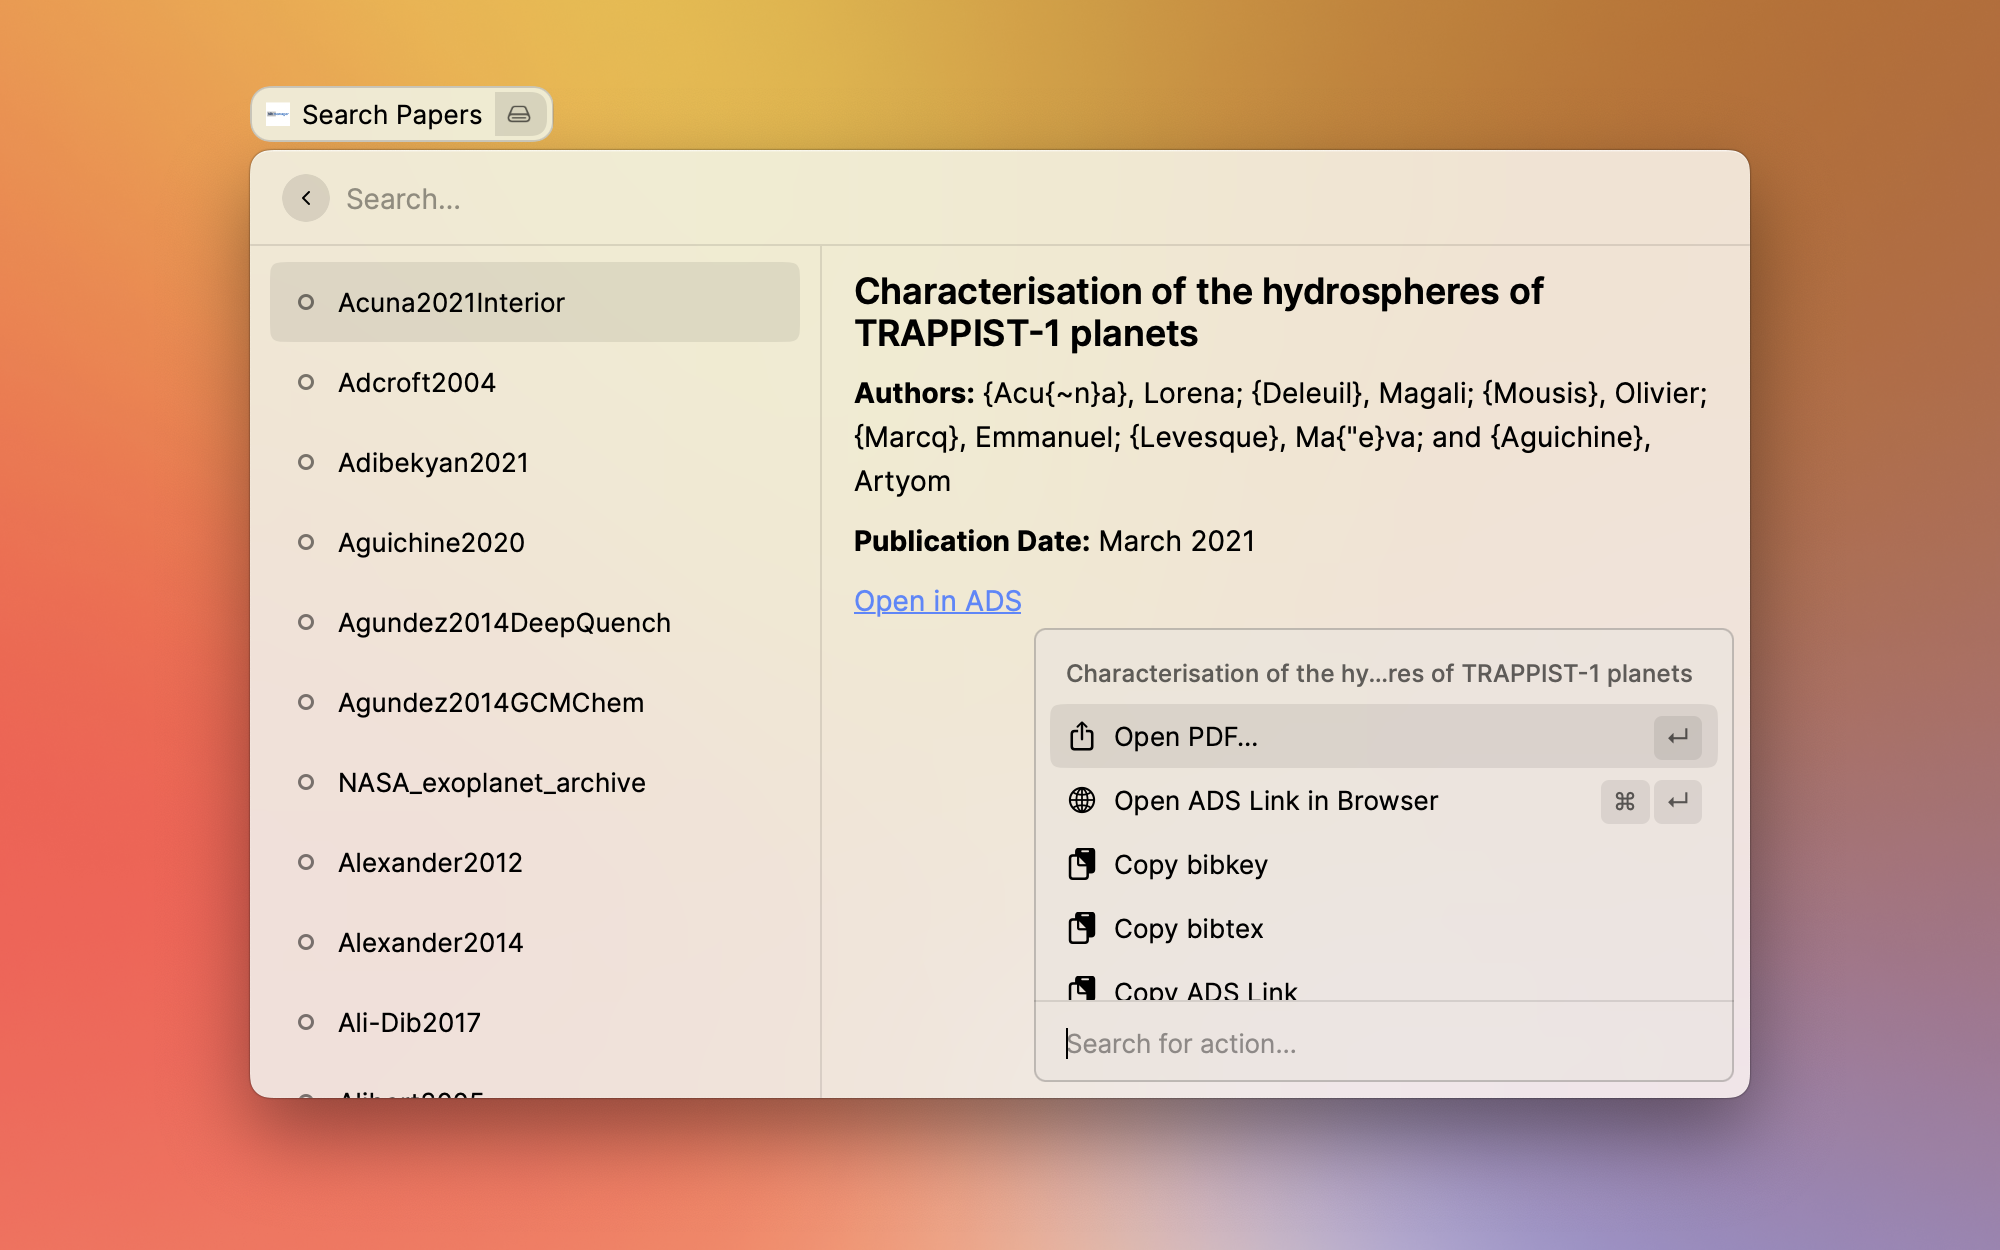
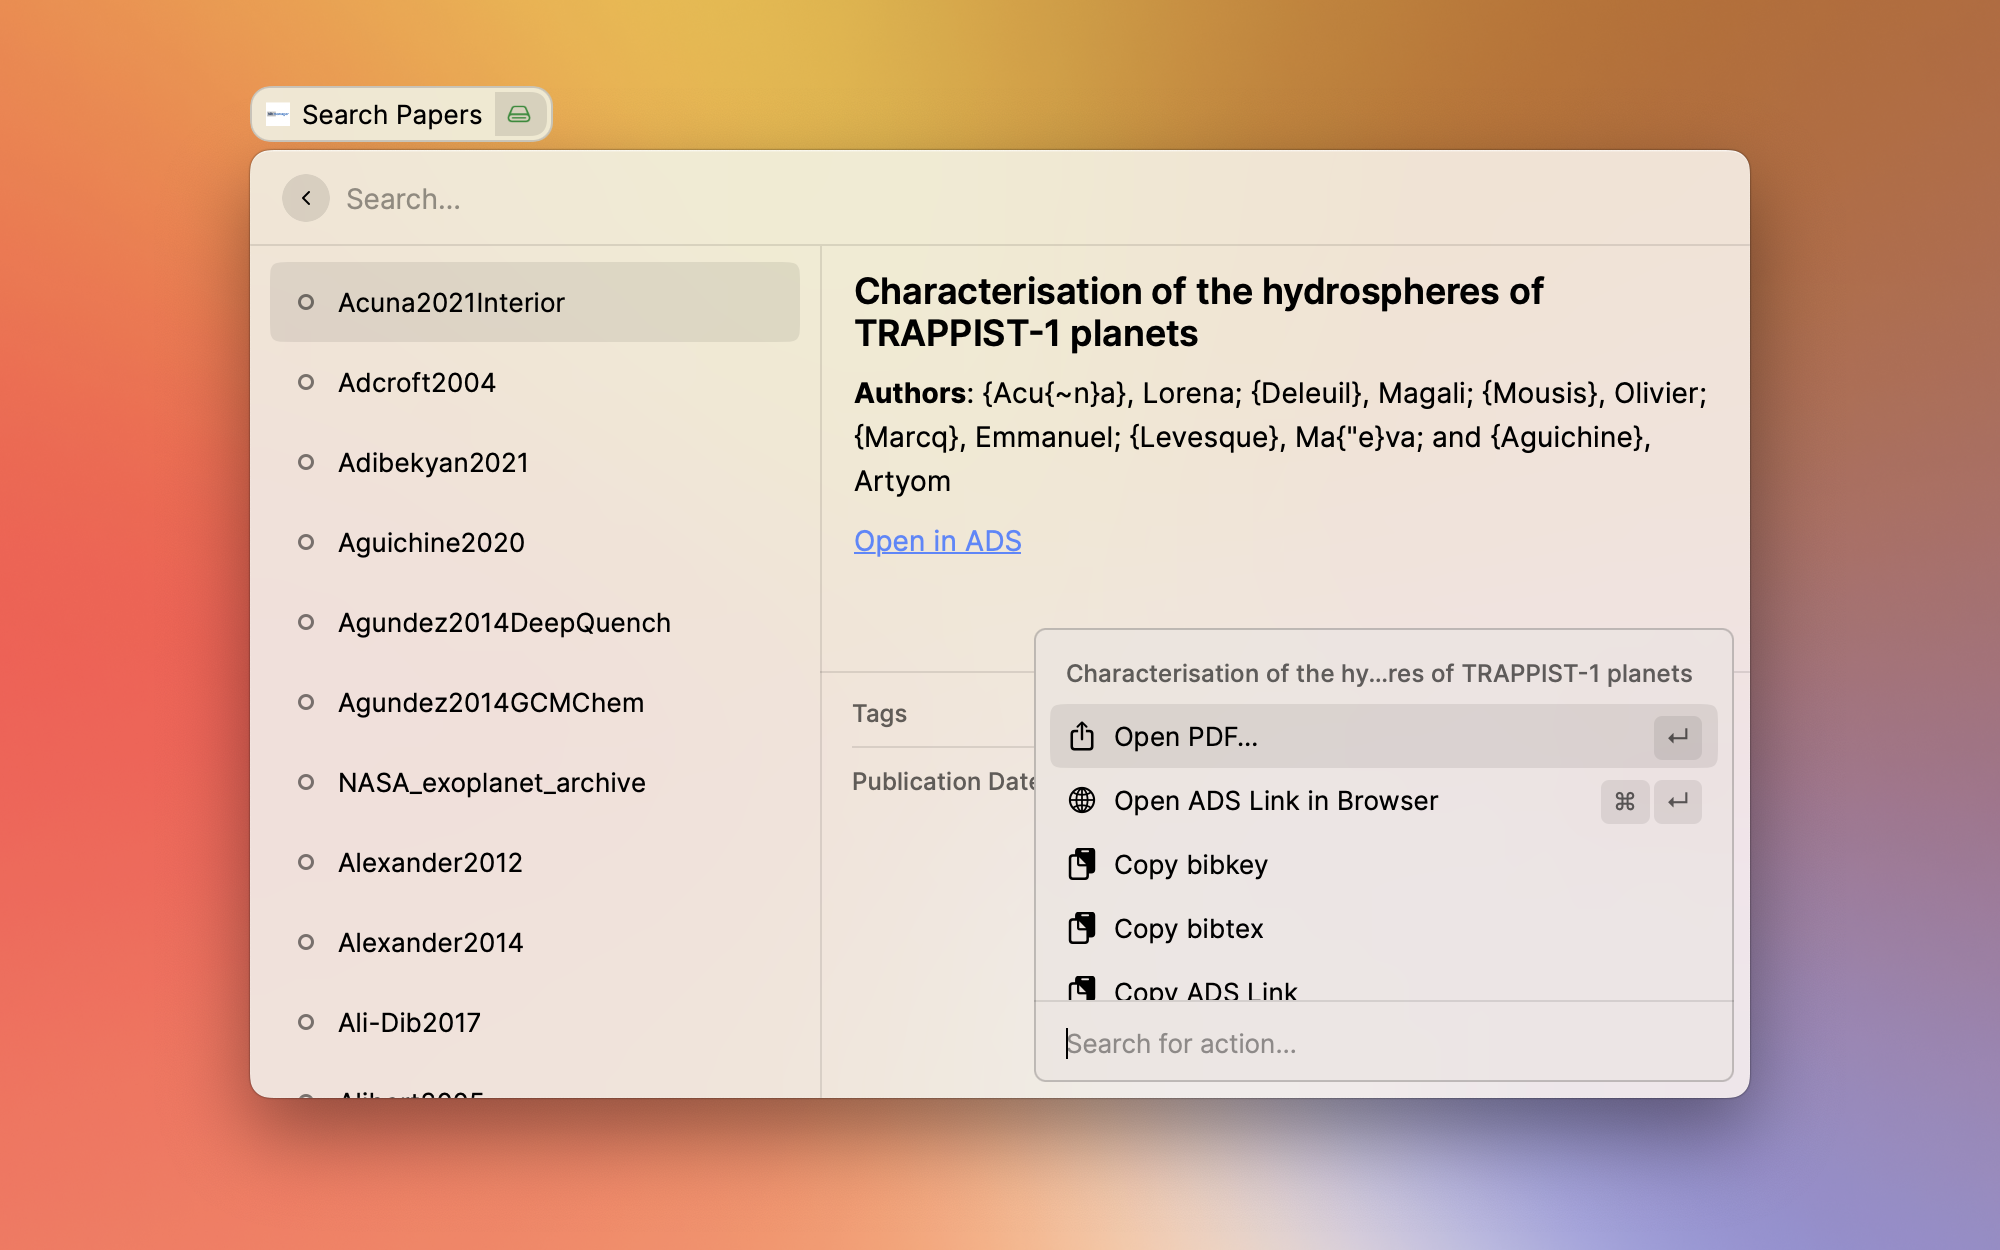
bibmanager: update metadata, cleanup code (#2069)

diff --git a/extensions/bibmanager/src/ListBibmItem.tsx b/extensions/bibmanager/src/ListBibmItem.tsx
@@ -23,7 +23,7 @@ export function ListBibmItem(props: { item: Item; index: number }) {
       title={props.item.uid ?? "No title"}
       actions={<Actions item={props.item} />}
       keywords={[props.item.year.toString(), props.item.title, ...props.item.authors_tag, ...props.item.tags]}
-      detail={<List.Item.Detail markdown={getItemDetail(props.item)} />}
+      detail={getItemDetail(props.item)}
     />
   );
 }
@@ -47,18 +47,32 @@ function Actions(props: { item: Item }) {
   );
 }
 
-function getItemDetail(item: Item): string {
+function getItemDetail(item: Item) {
+  return (
+    <List.Item.Detail
+      markdown={getMarkdown(item)}
+      metadata={
+        <List.Item.Detail.Metadata>
+          <List.Item.Detail.Metadata.Label title="Tags" text={`${item.tags.length > 0 ? item.tags.join(", ") : ""}`} />
+          <List.Item.Detail.Metadata.Separator />
+          <List.Item.Detail.Metadata.Label
+            title="Publication Date"
+            text={`${item.year && item.month ? getMonth(item.month) + " " + item.year.toString() : ""}`}
+          />
+        </List.Item.Detail.Metadata>
+      }
+    />
+  );
+}
+
+function getMarkdown(item: Item) {
   return `## ${item.title}
-
-${item.authors_string ? "**Authors:** " + item.authors_string : ""}
-
-${item.year && item.month ? "**Publication Date:** " + getMonth(item.month) + " " + item.year.toString() : ""}
-
-${item.tags.length > 0 ? "**Tags:** " + item.tags.join(", ") : ""}
-
-${item.link ? "[Open in ADS](" + item.link + ")" : ""}
-
-`;
+  
+  **Authors**: ${item.authors_string ? item.authors_string : ""}
+  
+  ${item.link ? "[Open in ADS](" + item.link + ")" : ""}
+  
+  `;
 }
 
 function getMonth(key: number) {
@@ -81,32 +95,28 @@ const monthMap = new Map<number, string>([
 ]);
 
 export function DownloadPDF(key: string) {
-  const toastload = new Toast({
+  const toast = new Toast({
     style: Toast.Style.Animated,
     title: "Downloading PDF",
   });
-  const toastsuccess = new Toast({
-    style: Toast.Style.Success,
-    title: "Download succeeded",
-    message: "Rerun to open",
-  });
-  const toastfail = new Toast({
-    style: Toast.Style.Failure,
-    title: "Download error",
-    message: "Try manually with bibmanager CLI",
-  });
+  toast.show();
 
   const python = spawn(pythonbin, [join(environment.assetsPath, "bibm_download.py"), key]);
-  toastload.show();
   python.on("close", (code) => {
     if (code === 0) {
-      toastsuccess.show();
+      toast.style = Toast.Style.Success;
+      toast.title = "Download succeeded";
+      toast.message = "Rerun to open";
     } else {
-      toastfail.show();
+      toast.style = Toast.Style.Failure;
+      toast.title = "Download error";
+      toast.message = "Try manually with bibmanager CLI";
     }
   });
   python.on("error", () => {
-    toastfail.show();
+    toast.style = Toast.Style.Failure;
+    toast.title = "Download error";
+    toast.message = "Try manually with bibmanager CLI";
     return;
   });
 }

diff --git a/extensions/bibmanager/CHANGELOG.md b/extensions/bibmanager/CHANGELOG.md
@@ -1,3 +1,6 @@
 # bibmanager Changelog
 
 ## [Initial Version] - 2022-06-13
+
+## [1.0.1] - 2022-06-23
+Cleanup the metadata shown when selecting an item. 
